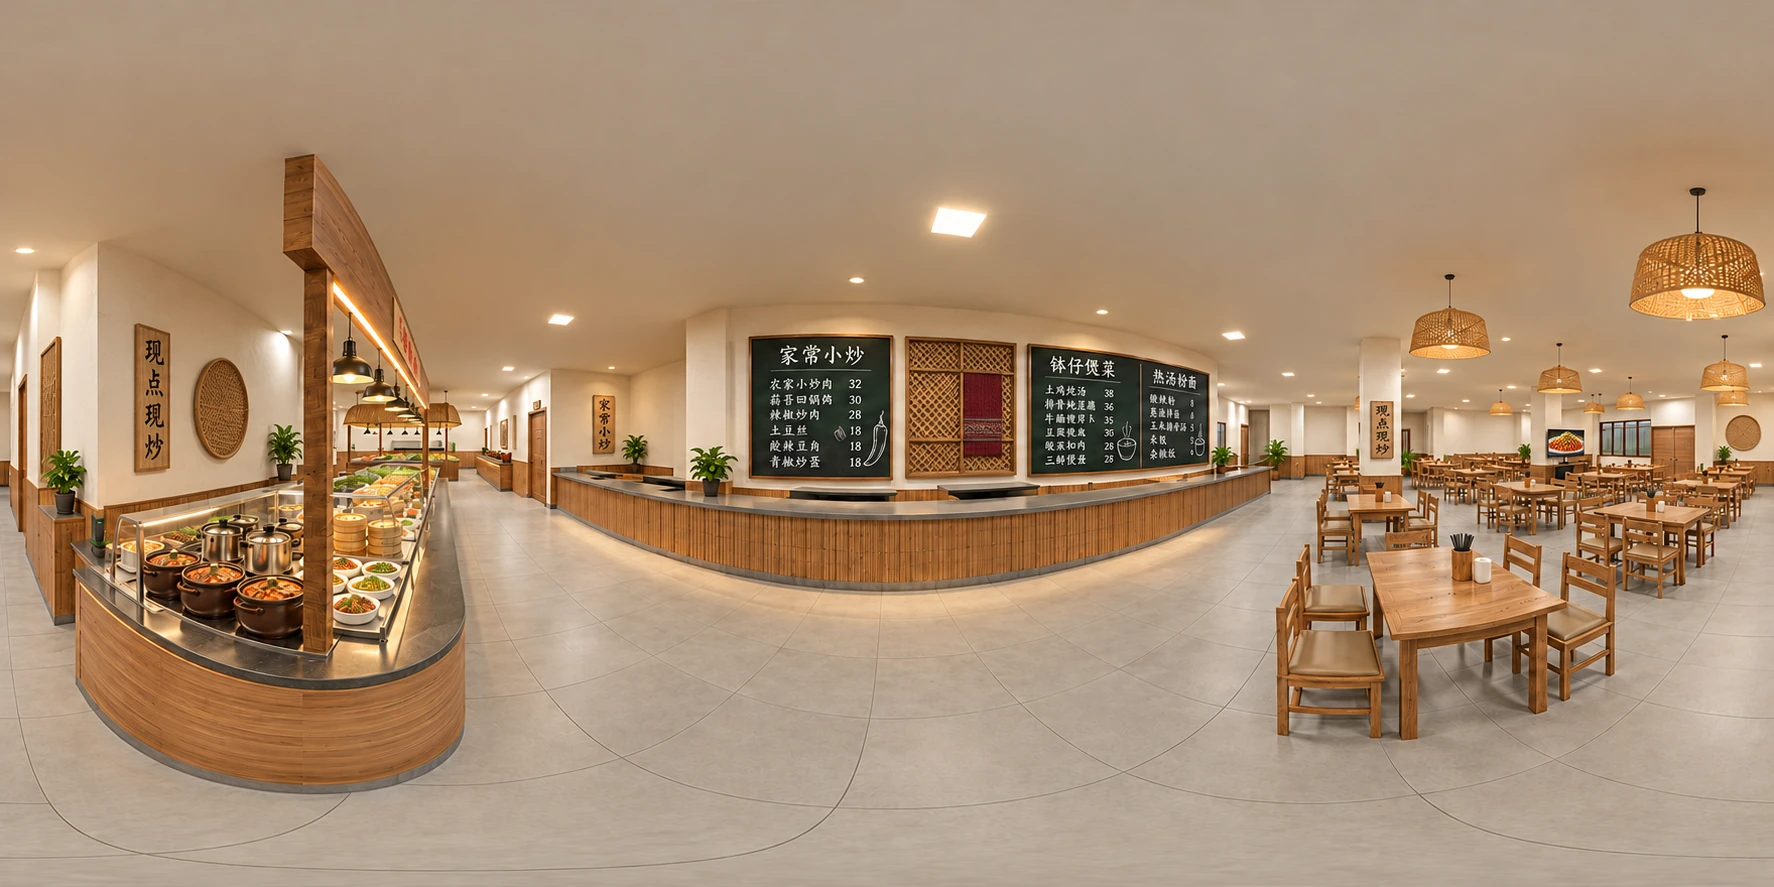
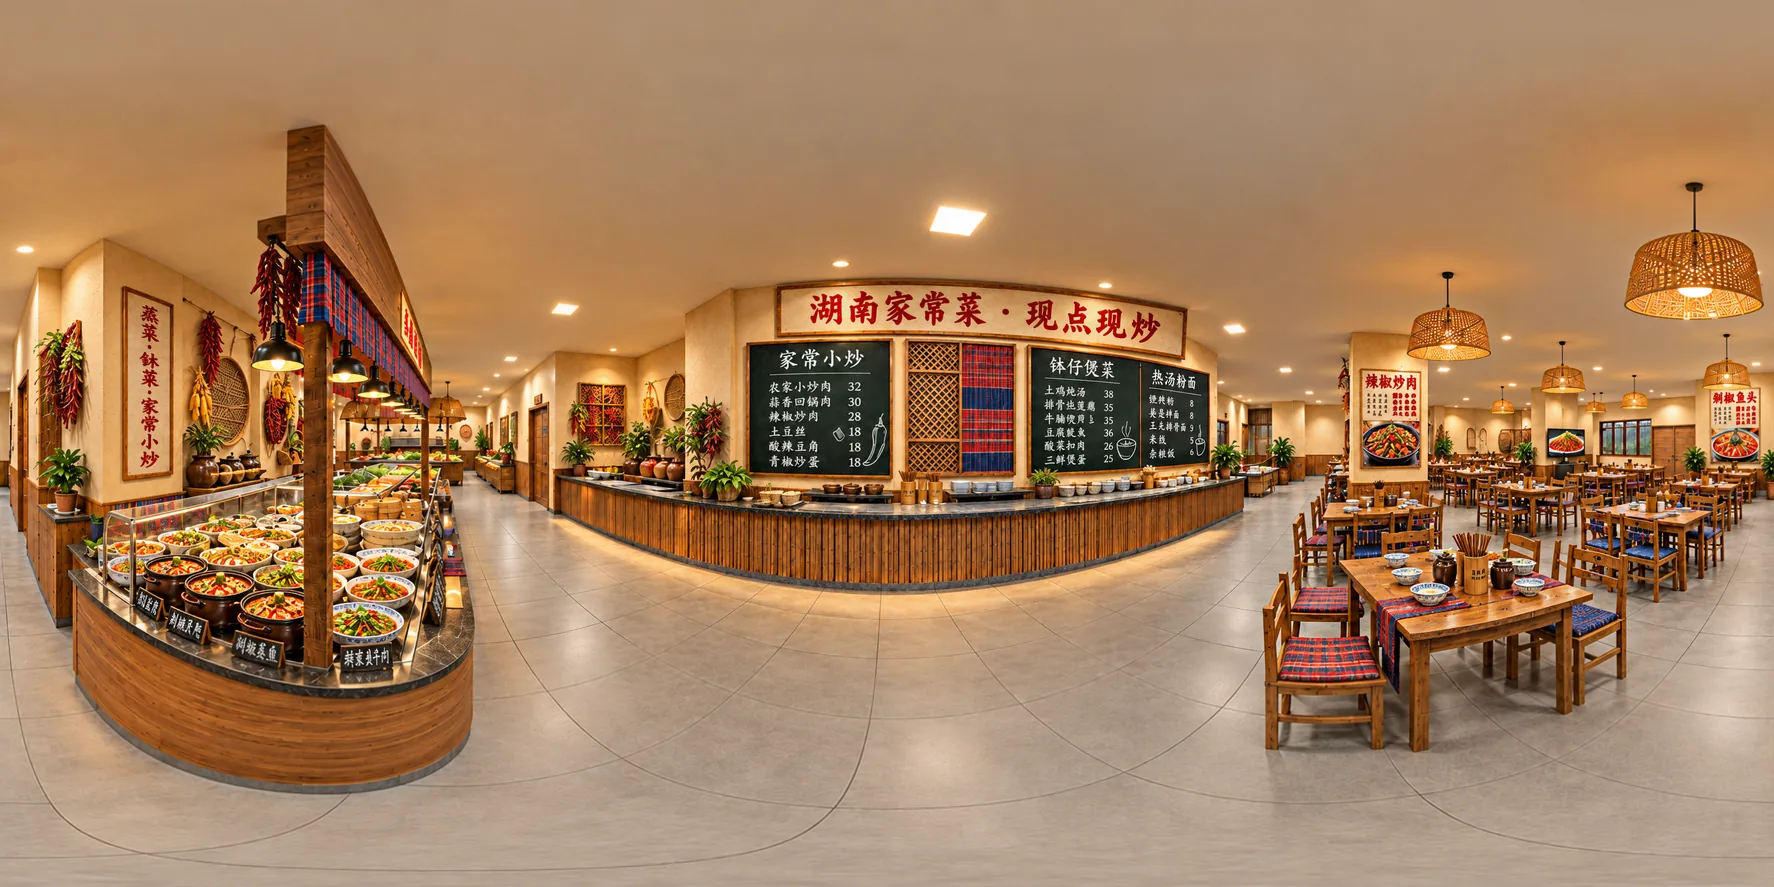
Refine Hunan canteen atmosphere with homespun cloth, food identity and retail preview

diff --git a/review/manifest.js b/review/manifest.js
@@ -1,51 +1,55 @@
-// First5 rustic-style review regions. This is not the completed whole tour.
+// Six atmosphere samples; this is not the completed full construction tour.
 window.PHOTO_TOUR = [
-  {
-    "id": "CP11",
-    "name": "茶室",
-    "group": "首批校核 · 5个区域",
-    "image": "images/CP11.webp?v=20261030style2",
-    "hdImage": "images-detail/CP11.webp?v=20261030style2",
-    "previewImage": "images-preview/CP11.webp?v=20261030style2",
-    "original": "originals/CP11.png?v=20261030style2",
-    "cad_xy": [
-      264600,
-      82700
-    ],
-    "lookAt": [
-      265950,
-      83300
-    ],
-    "neighbors": [],
-    "styleRevision": "2026-10-30 rustic wood bamboo woven-cloth; no ink pictures"
-  },
   {
     "id": "CP16",
     "name": "明档大厅",
-    "group": "首批校核 · 5个区域",
-    "image": "images/CP16.webp?v=20261030style2",
-    "hdImage": "images/CP16.webp?v=20261030style2",
-    "previewImage": "images-preview/CP16.webp?v=20261030style2",
-    "original": "originals/CP16.png?v=20261030style2",
+    "group": "新版氛围样板 · 6个区域",
+    "image": "images/CP16.webp?v=20261030style4",
+    "hdImage": "images-detail/CP16.webp?v=20261030style4",
+    "previewImage": "images-preview/CP16.webp?v=20261030style4",
+    "original": "images-detail/CP16.webp?v=20261030style4",
     "cad_xy": [
       247885.1254,
       97956.8638
     ],
     "lookAt": [
-      247885.1254,
-      100956.8638
+      250785.1254,
+      98756.8638
     ],
     "neighbors": [],
-    "styleRevision": "2026-10-30 rustic wood bamboo woven-cloth; no ink pictures"
+    "styleRevision": "2026-10-30 Hunan home-cooking, ochre elm wood, visible red-indigo homespun, food communication, practical tableware and designated retail; no ink landscape",
+    "imageRevision": "20261030style4",
+    "detailMethod": "native directional refinements, straight-line registration, spherical blending"
+  },
+  {
+    "id": "CP13",
+    "name": "土货与食材展示",
+    "cad_xy": [
+      234100,
+      98900
+    ],
+    "lookAt": [
+      235135,
+      100156.86
+    ],
+    "neighbors": [],
+    "group": "新版氛围样板 · 6个区域",
+    "image": "images/CP13.webp?v=20261030style4",
+    "previewImage": "images-preview/CP13.webp?v=20261030style4",
+    "hdImage": "images-detail/CP13.webp?v=20261030style4",
+    "original": "images-detail/CP13.webp?v=20261030style4",
+    "imageRevision": "20261030style4",
+    "styleRevision": "2026-10-30 Hunan home-cooking, ochre elm wood, visible red-indigo homespun, food communication, practical tableware and designated retail; no ink landscape",
+    "detailMethod": "native directional refinements, straight-line registration, spherical blending"
   },
   {
     "id": "R04A",
     "name": "包间04",
-    "group": "首批校核 · 5个区域",
-    "image": "images/R04A.webp?v=20261030style2",
-    "hdImage": "images/R04A.webp?v=20261030style2",
-    "previewImage": "images-preview/R04A.webp?v=20261030style2",
-    "original": "originals/R04A.png?v=20261030style2",
+    "group": "新版氛围样板 · 6个区域",
+    "image": "images/R04A.webp?v=20261030style4",
+    "hdImage": "images-detail/R04A.webp?v=20261030style4",
+    "previewImage": "images-preview/R04A.webp?v=20261030style4",
+    "original": "images-detail/R04A.webp?v=20261030style4",
     "cad_xy": [
       259235.1254,
       107856.8638
@@ -55,16 +59,39 @@ window.PHOTO_TOUR = [
       109321.85845940586
     ],
     "neighbors": [],
-    "styleRevision": "2026-10-30 rustic wood bamboo woven-cloth; no ink pictures"
+    "styleRevision": "2026-10-30 Hunan home-cooking, ochre elm wood, visible red-indigo homespun, food communication, practical tableware and designated retail; no ink landscape",
+    "imageRevision": "20261030style4",
+    "detailMethod": "native directional refinements, straight-line registration, spherical blending"
+  },
+  {
+    "id": "CP11",
+    "name": "茶室",
+    "group": "新版氛围样板 · 6个区域",
+    "image": "images/CP11.webp?v=20261030style4",
+    "hdImage": "images-detail/CP11.webp?v=20261030style4",
+    "previewImage": "images-preview/CP11.webp?v=20261030style4",
+    "original": "images-detail/CP11.webp?v=20261030style4",
+    "cad_xy": [
+      264600,
+      82700
+    ],
+    "lookAt": [
+      265950,
+      83300
+    ],
+    "neighbors": [],
+    "styleRevision": "2026-10-30 Hunan home-cooking, ochre elm wood, visible red-indigo homespun, food communication, practical tableware and designated retail; no ink landscape",
+    "imageRevision": "20261030style4",
+    "detailMethod": "native directional refinements, straight-line registration, spherical blending"
   },
   {
     "id": "EL_WEST",
     "name": "西双客梯",
-    "group": "首批校核 · 5个区域",
-    "image": "images/EL_WEST.webp?v=20261030style2",
-    "hdImage": "images/EL_WEST.webp?v=20261030style2",
-    "previewImage": "images-preview/EL_WEST.webp?v=20261030style2",
-    "original": "originals/EL_WEST.png?v=20261030style2",
+    "group": "新版氛围样板 · 6个区域",
+    "image": "images/EL_WEST.webp?v=20261030style4",
+    "hdImage": "images-detail/EL_WEST.webp?v=20261030style4",
+    "previewImage": "images-preview/EL_WEST.webp?v=20261030style4",
+    "original": "images-detail/EL_WEST.webp?v=20261030style4",
     "cad_xy": [
       245200,
       90900
@@ -74,16 +101,18 @@ window.PHOTO_TOUR = [
       92900
     ],
     "neighbors": [],
-    "styleRevision": "2026-10-30 rustic wood bamboo woven-cloth; no ink pictures"
+    "styleRevision": "2026-10-30 Hunan home-cooking, ochre elm wood, visible red-indigo homespun, food communication, practical tableware and designated retail; no ink landscape",
+    "imageRevision": "20261030style4",
+    "detailMethod": "native directional refinements, straight-line registration, spherical blending"
   },
   {
     "id": "WC_WASH",
     "name": "公共盥洗",
-    "group": "首批校核 · 5个区域",
-    "image": "images/WC_WASH.webp?v=20261030style2",
-    "hdImage": "images/WC_WASH.webp?v=20261030style2",
-    "previewImage": "images-preview/WC_WASH.webp?v=20261030style2",
-    "original": "originals/WC_WASH.png?v=20261030style2",
+    "group": "新版氛围样板 · 6个区域",
+    "image": "images/WC_WASH.webp?v=20261030style4",
+    "hdImage": "images-detail/WC_WASH.webp?v=20261030style4",
+    "previewImage": "images-preview/WC_WASH.webp?v=20261030style4",
+    "original": "images-detail/WC_WASH.webp?v=20261030style4",
     "cad_xy": [
       277400,
       98900
@@ -93,6 +122,8 @@ window.PHOTO_TOUR = [
       99200
     ],
     "neighbors": [],
-    "styleRevision": "2026-10-30 rustic wood bamboo woven-cloth; no ink pictures"
+    "styleRevision": "2026-10-30 Hunan home-cooking, ochre elm wood, visible red-indigo homespun, food communication, practical tableware and designated retail; no ink landscape",
+    "imageRevision": "20261030style4",
+    "detailMethod": "native directional refinements, straight-line registration, spherical blending"
   }
 ];

diff --git a/review/index.html b/review/index.html
@@ -6,13 +6,13 @@
   <meta name="theme-color" content="#242321">
   <title>雄韬湘菜食堂 · 湘菜土菜馆 · 风格校核</title>
   <script>
-    (function(){var id=new URLSearchParams(location.search).get('node')||'CP11';if(!/^(CP11|CP16|R04A|EL_WEST|WC_WASH)$/.test(id))id='CP11';var p=document.createElement('link');p.rel='preload';p.as='image';p.href='images-preview/'+id+'.webp?v=20261030style2';p.setAttribute('fetchpriority','high');document.head.appendChild(p)})();
+    (function(){var id=new URLSearchParams(location.search).get('node')||'CP16';if(!/^(CP16|CP13|R04A|CP11|EL_WEST|WC_WASH)$/.test(id))id='CP16';var p=document.createElement('link');p.rel='preload';p.as='image';p.href='images-preview/'+id+'.webp?v=20261030style4';p.setAttribute('fetchpriority','high');document.head.appendChild(p)})();
   </script>
   <link rel="stylesheet" href="../styles.css?v=20261029review1">
   <link rel="stylesheet" href="../plan-ui.css?v=20261029review1">
 </head>
 <body>
-  <main id="tour" aria-label="首批5个区域照片全景校核预览">
+  <main id="tour" aria-label="新版6个区域照片全景氛围样板">
     <canvas id="panorama" tabindex="0" aria-label="拖动环顾全景，滚轮或双指缩放"></canvas>
     <img id="fallbackImage" alt="当前全景原图" hidden>
     <div id="hotspots" aria-label="全景位置"></div>
@@ -36,12 +36,12 @@
   <div id="status" class="status" role="status" aria-live="polite"><span id="statusText">正在读取第一张全景…</span><button id="retry" type="button" hidden>重试</button></div>
   <section id="planPanel" class="locator" aria-label="二层图纸与首批校核区域位置">
     <div class="locator-mobile-bar"><div><span>我在图纸哪里 · 二层</span><strong id="planMobileName">正在定位…</strong></div><button id="planMobileToggle" type="button" aria-expanded="false" aria-controls="planMap">展开图纸 ▴</button></div>
-    <div class="locator-top"><div><strong>我在图纸哪里</strong><small>10月24日二层设计图 · 首批5区校核</small></div><div class="locator-actions"><button id="planExpand" type="button" aria-pressed="false">全屏图纸</button><button id="planClose" type="button" aria-label="返回全景" hidden>×</button></div></div>
+    <div class="locator-top"><div><strong>我在图纸哪里</strong><small>10月24日二层设计图 · 新版6区氛围样板</small></div><div class="locator-actions"><button id="planExpand" type="button" aria-pressed="false">全屏图纸</button><button id="planClose" type="button" aria-label="返回全景" hidden>×</button></div></div>
     <div class="locator-current-box"><p id="planCurrent" class="locator-current" aria-live="polite">正在定位…</p><p id="planPointId" class="locator-point"></p><p id="planMode" class="locator-mode">局部跟随 · 换位置自动定位</p></div>
     <div class="locator-map"><svg id="planMap" role="group" aria-label="原二层图纸，红点为当前位置，扇形为观看方向"></svg></div>
-    <div class="locator-bottom"><div class="locator-zoom"><button id="planPlus" type="button" aria-label="放大图纸比例">＋</button><button id="planMinus" type="button" aria-label="缩小图纸比例">−</button><button id="planReset" type="button">查看全图</button><button id="planLocate" type="button" aria-pressed="true">跟随我</button><button id="planAll" type="button" aria-pressed="false">全部点位</button></div><span class="locator-hint"><i aria-hidden="true"></i>红点是我 · 扇形是眼前方向 · 全部点位可切换区域<br>拖动查看图纸，点“跟随我”回到当前局部</span><p class="locator-note">首批5区风格样板；位置按平面校核，材料、灯具及菜价为设计示意，尺寸保留调整</p></div>
+    <div class="locator-bottom"><div class="locator-zoom"><button id="planPlus" type="button" aria-label="放大图纸比例">＋</button><button id="planMinus" type="button" aria-label="缩小图纸比例">−</button><button id="planReset" type="button">查看全图</button><button id="planLocate" type="button" aria-pressed="true">跟随我</button><button id="planAll" type="button" aria-pressed="false">全部点位</button></div><span class="locator-hint"><i aria-hidden="true"></i>红点是我 · 扇形是眼前方向 · 全部点位可切换区域<br>拖动查看图纸，点“跟随我”回到当前局部</span><p class="locator-note">6区氛围样板；土布、菜品海报、陈列及售价为设计建议，细节与尺寸继续结合图纸复核</p></div>
   </section>
-  <script src="manifest.js?v=20261030style2"></script>
+  <script src="manifest.js?v=20261030style4"></script>
   <script src="../plan-data.js?v=20261029review1"></script>
   <script>
     ['image','background','plainImage'].forEach(function(key){if(window.PHOTO_TOUR_PLAN[key])window.PHOTO_TOUR_PLAN[key]='../'+window.PHOTO_TOUR_PLAN[key]});
